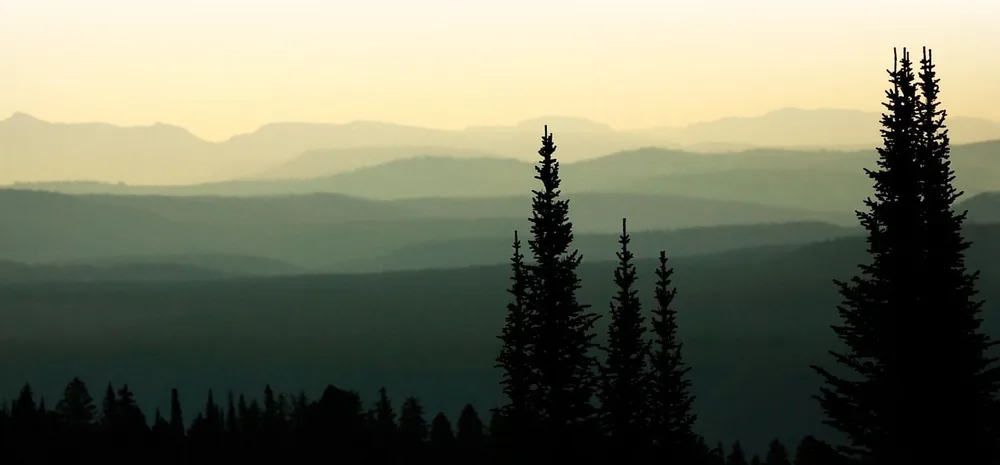
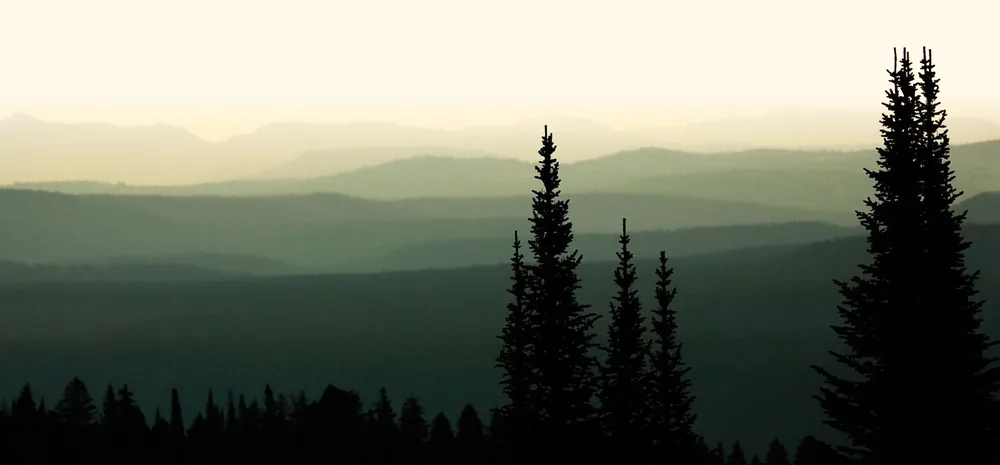
Footer landscape: crop-safe sky, size by aspect-ratio, no seams

Changed region(s): [[0.0, 0.0602, 1.0, 0.3613]]

diff --git a/_sass/_styles.scss b/_sass/_styles.scss
@@ -578,26 +578,32 @@ header.site-header nav {
 
 footer {
     width: 100%;
-    background: $footer-bg;
     font-size: $fsp;
     color: $white;
     position: relative;
 
     // Landscape whose sky fades into the page colour and whose forest runs into the footer
     .landscape {
-        height: unquote("clamp(150px, 46.5vw, 520px)"); // image is 2000 x 930
+        // Image is 2000 x 930 and always spans the full width; on very wide screens the band is
+        // capped and the (page-coloured) sky is cropped from the top, so the black bottom meets the footer
+        aspect-ratio: unquote("2000 / 930");
+        max-height: 744px;
+        background-color: hsl(42, 100%, 96%); // page colour, matches the image's top edge
         background-image: url(/images/footer-landscape.webp);
-        background-position: center top;
-        background-size: cover;
+        background-position: center bottom;
+        background-size: 100% auto;
         background-repeat: no-repeat;
         @media (max-width: 1000px) {
             background-image: url(/images/footer-landscape-1000.webp);
         }
     }
 
+    // The black is painted here, not on footer, so no dark seam shows above the landscape
     .footer-inner {
         position: relative;
         height: $footerHeight;
+        margin-top: -1px; // overlap the landscape's black bottom so no light seam shows
+        background: $footer-bg;
     }
 
     // Contain that ish
